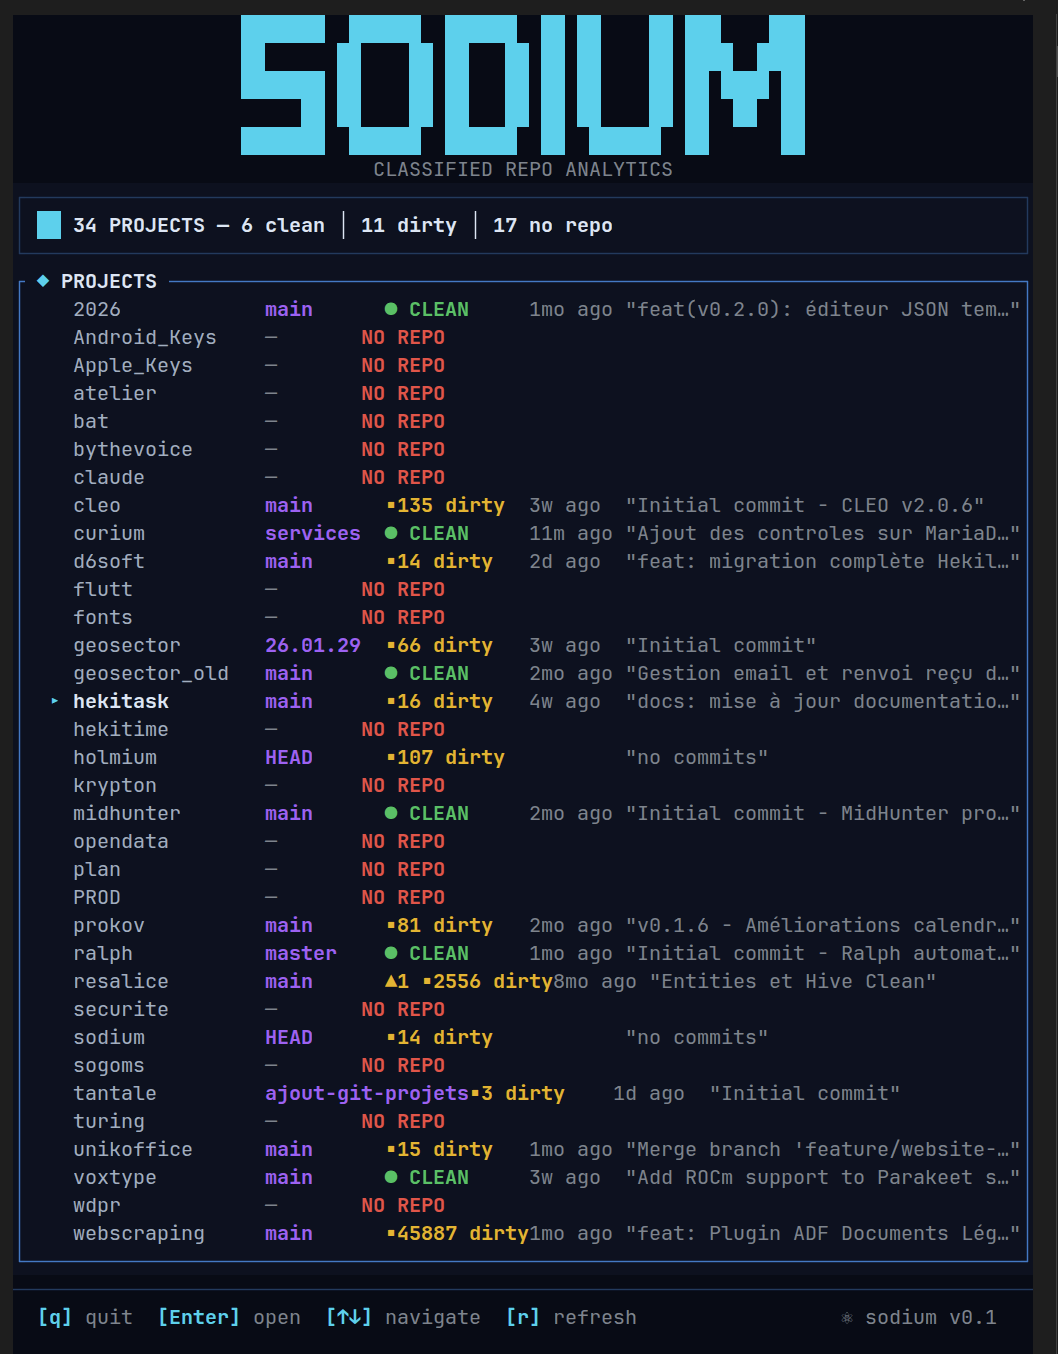
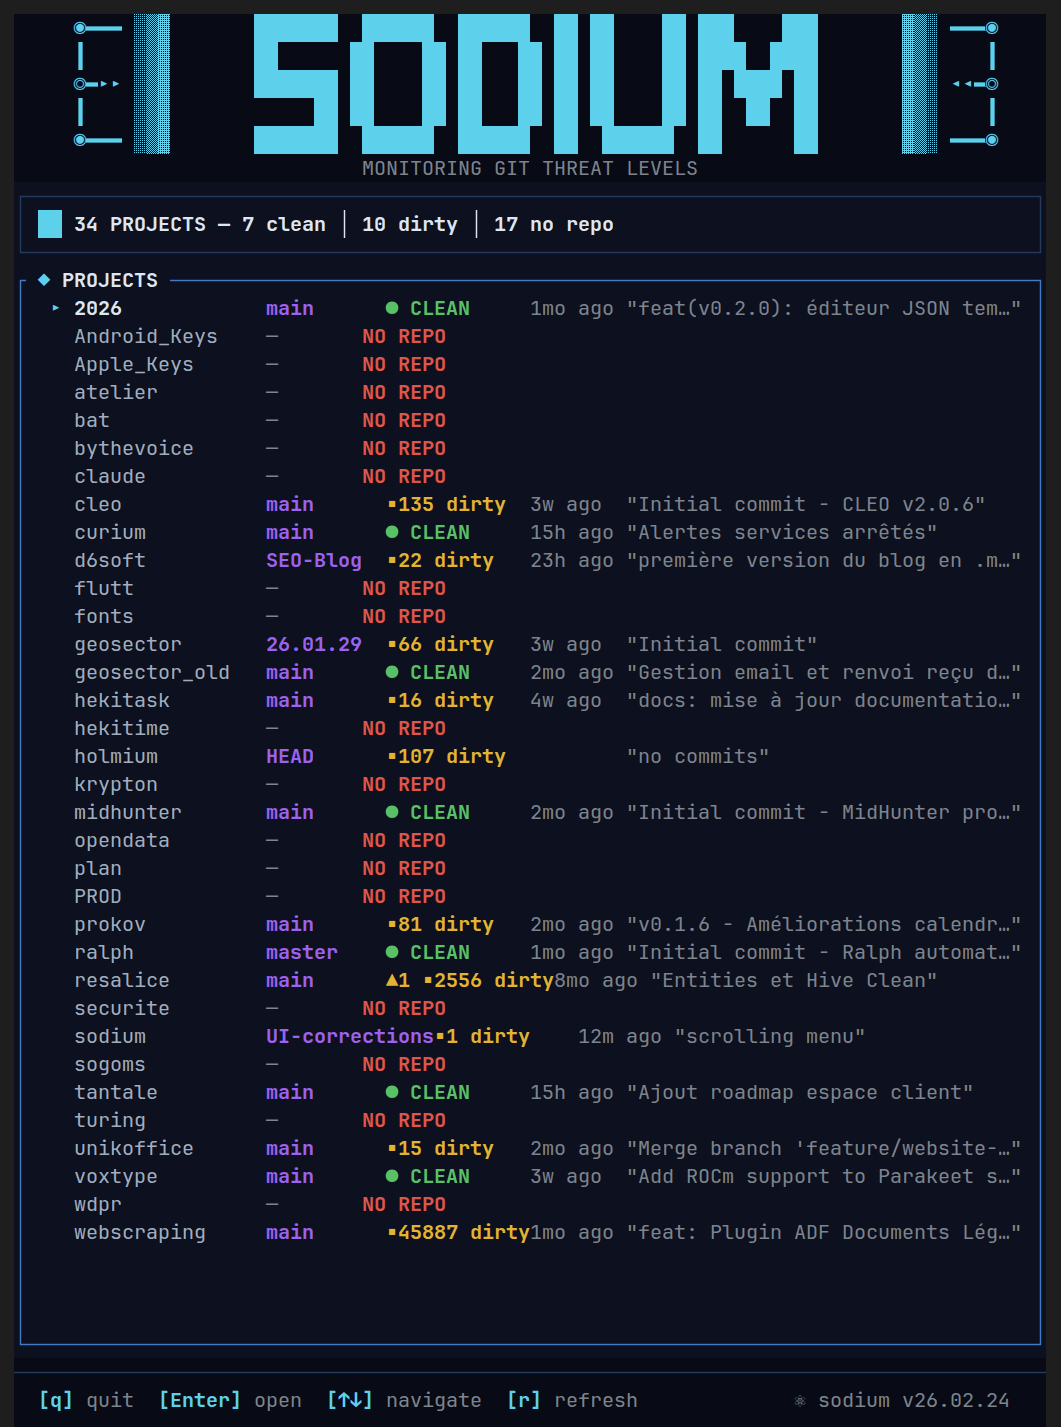
ajustement lines et spaces

Changed region(s): [[0.0, 0.0, 1.0, 1.0], [0.8422, 0.0, 0.9357, 0.1241], [0.0624, 0.0, 0.0936, 0.1241]]

diff --git a/src/ui.rs b/src/ui.rs
@@ -26,11 +26,11 @@ fn truncate_str(s: &str, max_chars: usize) -> String {
 // ── ASCII art header ───────────────────────────────────────────────────────
 
 const SODIUM_LOGO: &[&str] = &[
-    "◉━━━ ░▒▓    ███████  ██████  ██████  ██ ██    ██ ███    ███    ▓▒░ ━━━◉",
-    "┃    ░▒▓    ██      ██    ██ ██   ██ ██ ██    ██ ████  ████    ▓▒░    ┃",
-    "◎━▸▸ ░▒▓    ███████ ██    ██ ██   ██ ██ ██    ██ ██ ████ ██    ▓▒░ ◂◂━◎",
-    "┃    ░▒▓         ██ ██    ██ ██   ██ ██ ██    ██ ██  ██  ██    ▓▒░    ┃",
-    "◉━━━ ░▒▓    ███████  ██████  ██████  ██  ██████  ██      ██    ▓▒░ ━━━◉",
+    "◉━━━ ░▒▓       ███████  ██████  ██████  ██ ██    ██ ███    ███       ▓▒░ ━━━◉",
+    "┃    ░▒▓       ██      ██    ██ ██   ██ ██ ██    ██ ████  ████       ▓▒░    ┃",
+    "◎━▸▸ ░▒▓       ███████ ██    ██ ██   ██ ██ ██    ██ ██ ████ ██       ▓▒░ ◂◂━◎",
+    "┃    ░▒▓            ██ ██    ██ ██   ██ ██ ██    ██ ██  ██  ██       ▓▒░    ┃",
+    "◉━━━ ░▒▓       ███████  ██████  ██████  ██  ██████  ██      ██       ▓▒░ ━━━◉",
 ];
 
 const GLITCH_CHARS: &[char] = &[
@@ -532,36 +532,41 @@ fn render_body(f: &mut Frame, app: &App, area: Rect) {
     let body = Layout::default()
         .direction(Direction::Vertical)
         .constraints([
-            Constraint::Length(3),  // Repo name + branch + remote
+            Constraint::Length(4),  // Repo name + branch + remote (bordered, 2 lines)
             Constraint::Length(12), // Middle row (branches + activity + files)
-            Constraint::Length(1), // Spacer
             Constraint::Min(8),    // Actions menu
         ])
-        .margin(1)
+        .horizontal_margin(1)
         .split(area);
 
     render_repo_bar(f, app, body[0]);
     render_middle_row(f, app, body[1]);
-    render_actions(f, app, body[3]);
+    render_actions(f, app, body[2]);
 }
 
 fn render_repo_bar(f: &mut Frame, app: &App, area: Rect) {
     let info = &app.repo_info;
 
-    let remote_display = info
-        .remote_url
-        .as_deref()
-        .unwrap_or("no remote");
+    let block = Block::default()
+        .title(Line::from(vec![
+            Span::styled(" ◆ ", Style::default().fg(theme::CYAN)),
+            Span::styled(
+                &info.name,
+                Style::default()
+                    .fg(theme::CYAN)
+                    .add_modifier(Modifier::BOLD),
+            ),
+            Span::raw(" "),
+        ]))
+        .borders(Borders::ALL)
+        .border_style(Style::default().fg(theme::CYAN))
+        .style(Style::default().bg(theme::BG_CARD));
+
+    let inner = block.inner(area);
+    f.render_widget(block, area);
 
     let line1 = Line::from(vec![
-        Span::styled("  ◆ ", Style::default().fg(theme::CYAN)),
-        Span::styled(
-            &info.name,
-            Style::default()
-                .fg(theme::FG_BRIGHT)
-                .add_modifier(Modifier::BOLD),
-        ),
-        Span::styled("  on  ", Style::default().fg(theme::FG_DIM)),
+        Span::styled(" on ", Style::default().fg(theme::FG_DIM)),
         Span::styled(
             &info.current_branch,
             Style::default()
@@ -575,18 +580,24 @@ fn render_repo_bar(f: &mut Frame, app: &App, area: Rect) {
         ),
     ]);
 
-    let mut line2_spans = vec![
-        Span::styled("    ╰ ", Style::default().fg(theme::BORDER)),
+    let remote_display = info
+        .remote_url
+        .as_deref()
+        .unwrap_or("no remote");
+
+    let mut remote_spans = vec![
+        Span::styled(" ╰ ", Style::default().fg(theme::BORDER)),
         Span::styled(remote_display, Style::default().fg(theme::FG_DIM)),
     ];
 
-    if info.github_url.is_some() {
-        line2_spans.push(Span::styled("  ◆ GitHub", Style::default().fg(theme::CYAN).add_modifier(Modifier::BOLD)));
+    if let Some(ref gh_url) = info.github_url {
+        remote_spans.push(Span::styled("  │  ", Style::default().fg(theme::BORDER)));
+        remote_spans.push(Span::styled("◆ ", Style::default().fg(theme::CYAN)));
+        remote_spans.push(Span::styled(gh_url.as_str(), Style::default().fg(theme::FG_DIM)));
     }
 
-    let line2 = Line::from(line2_spans);
-
-    f.render_widget(Paragraph::new(vec![line1, line2]), area);
+    let line2 = Line::from(remote_spans);
+    f.render_widget(Paragraph::new(vec![line1, line2]), inner);
 }
 
 fn render_middle_row(f: &mut Frame, app: &App, area: Rect) {
